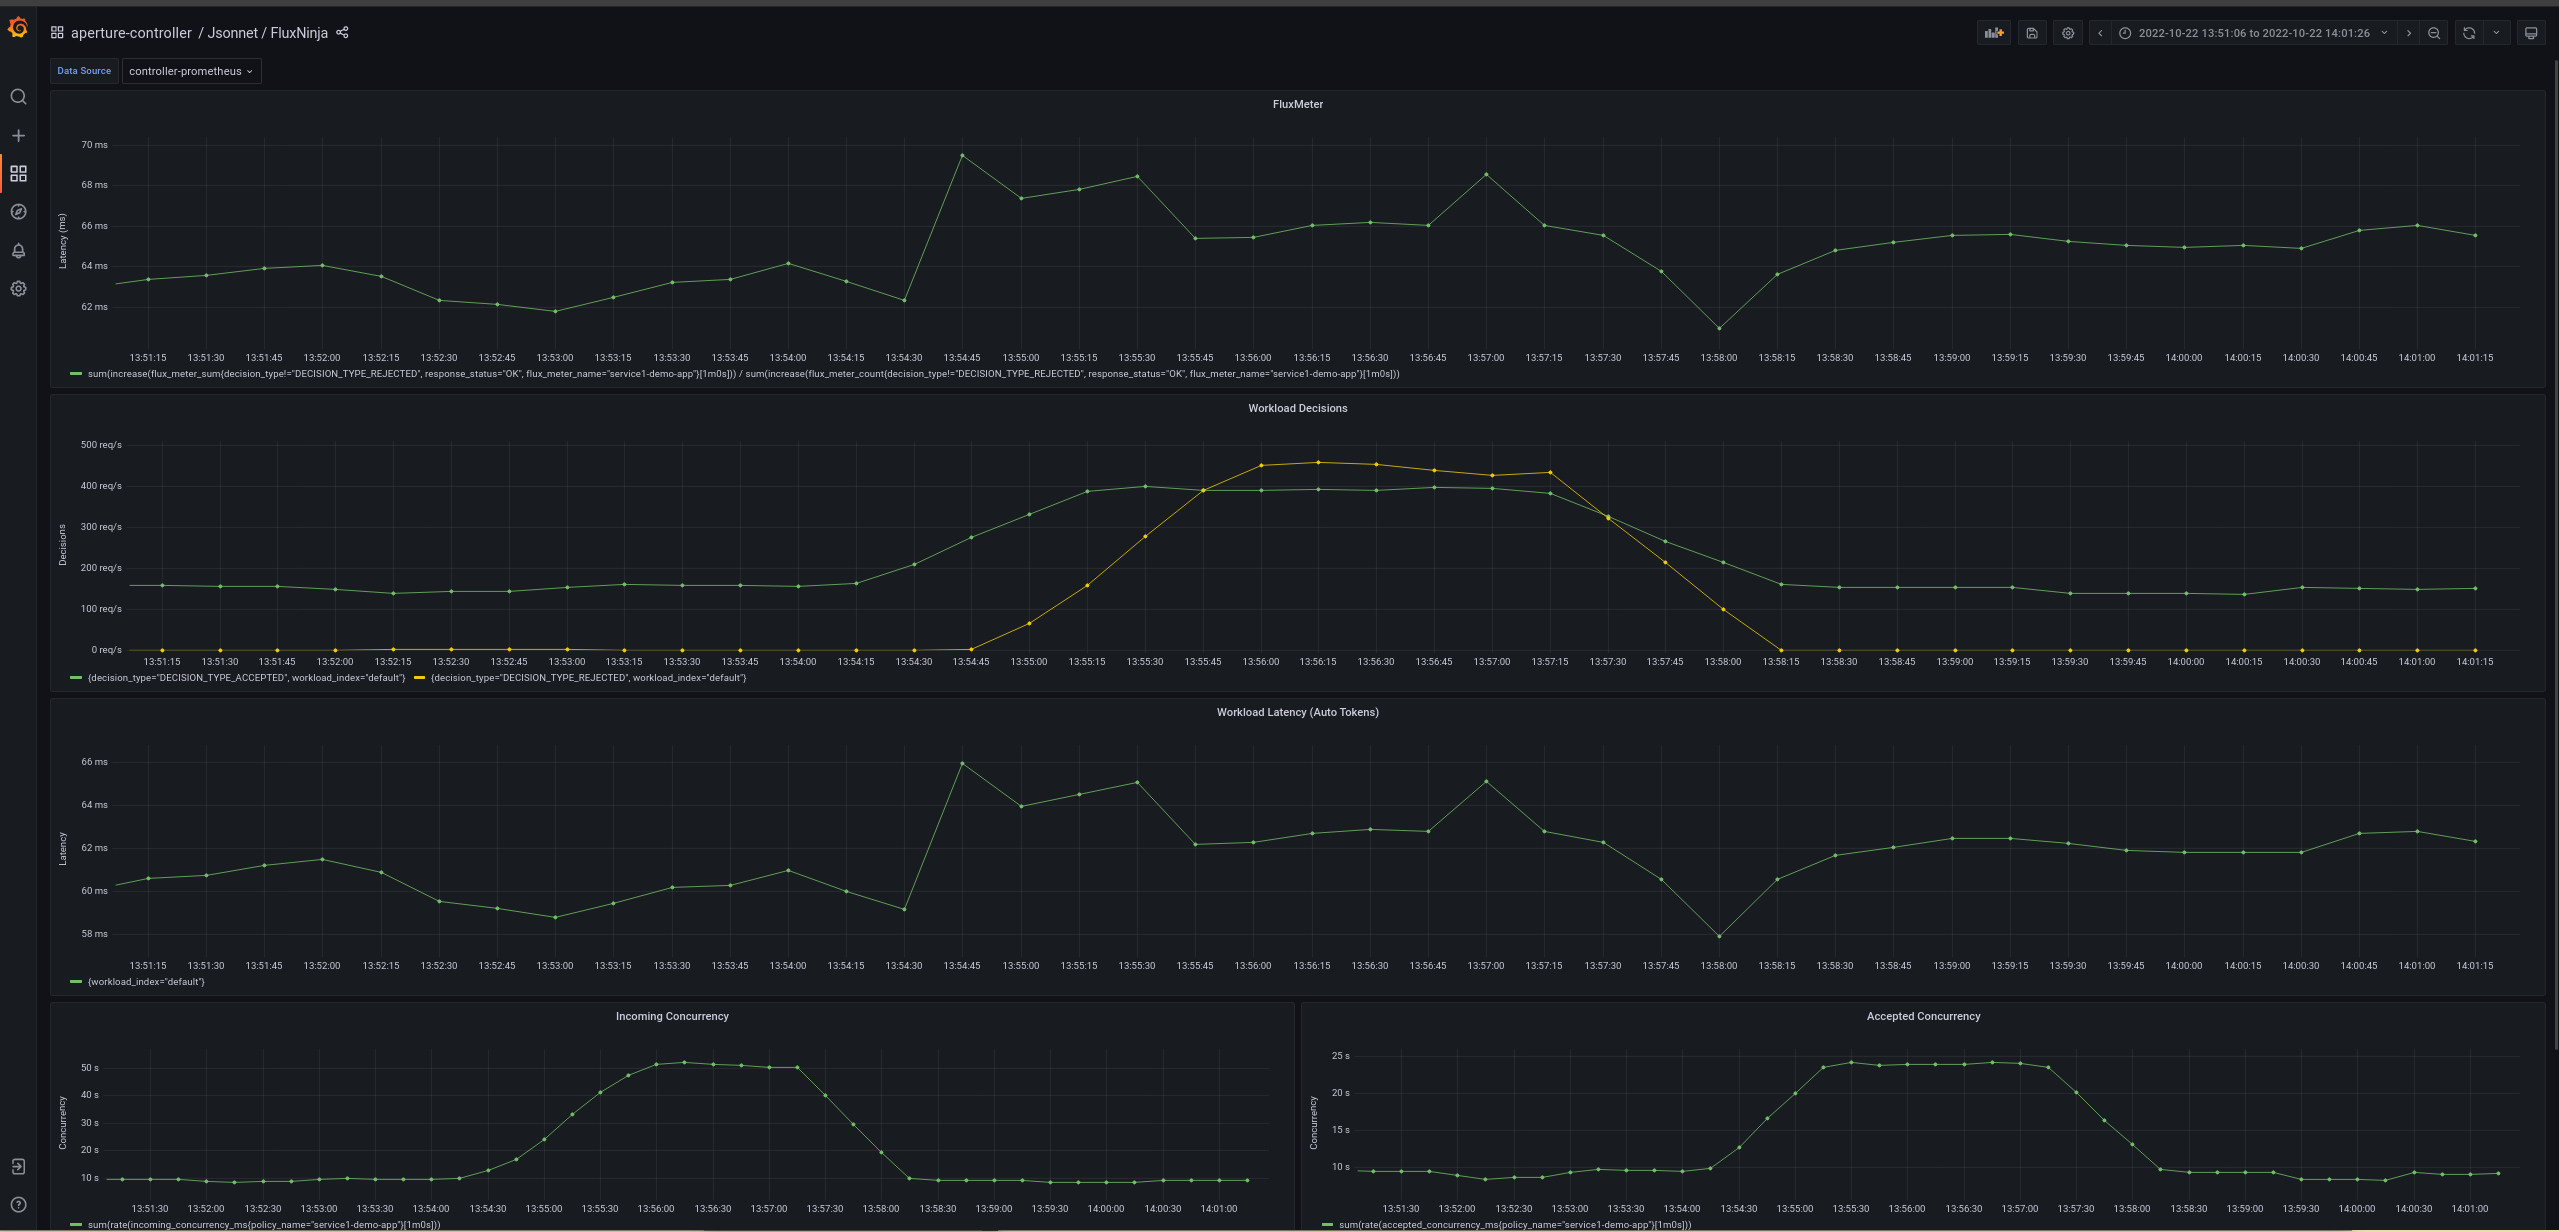
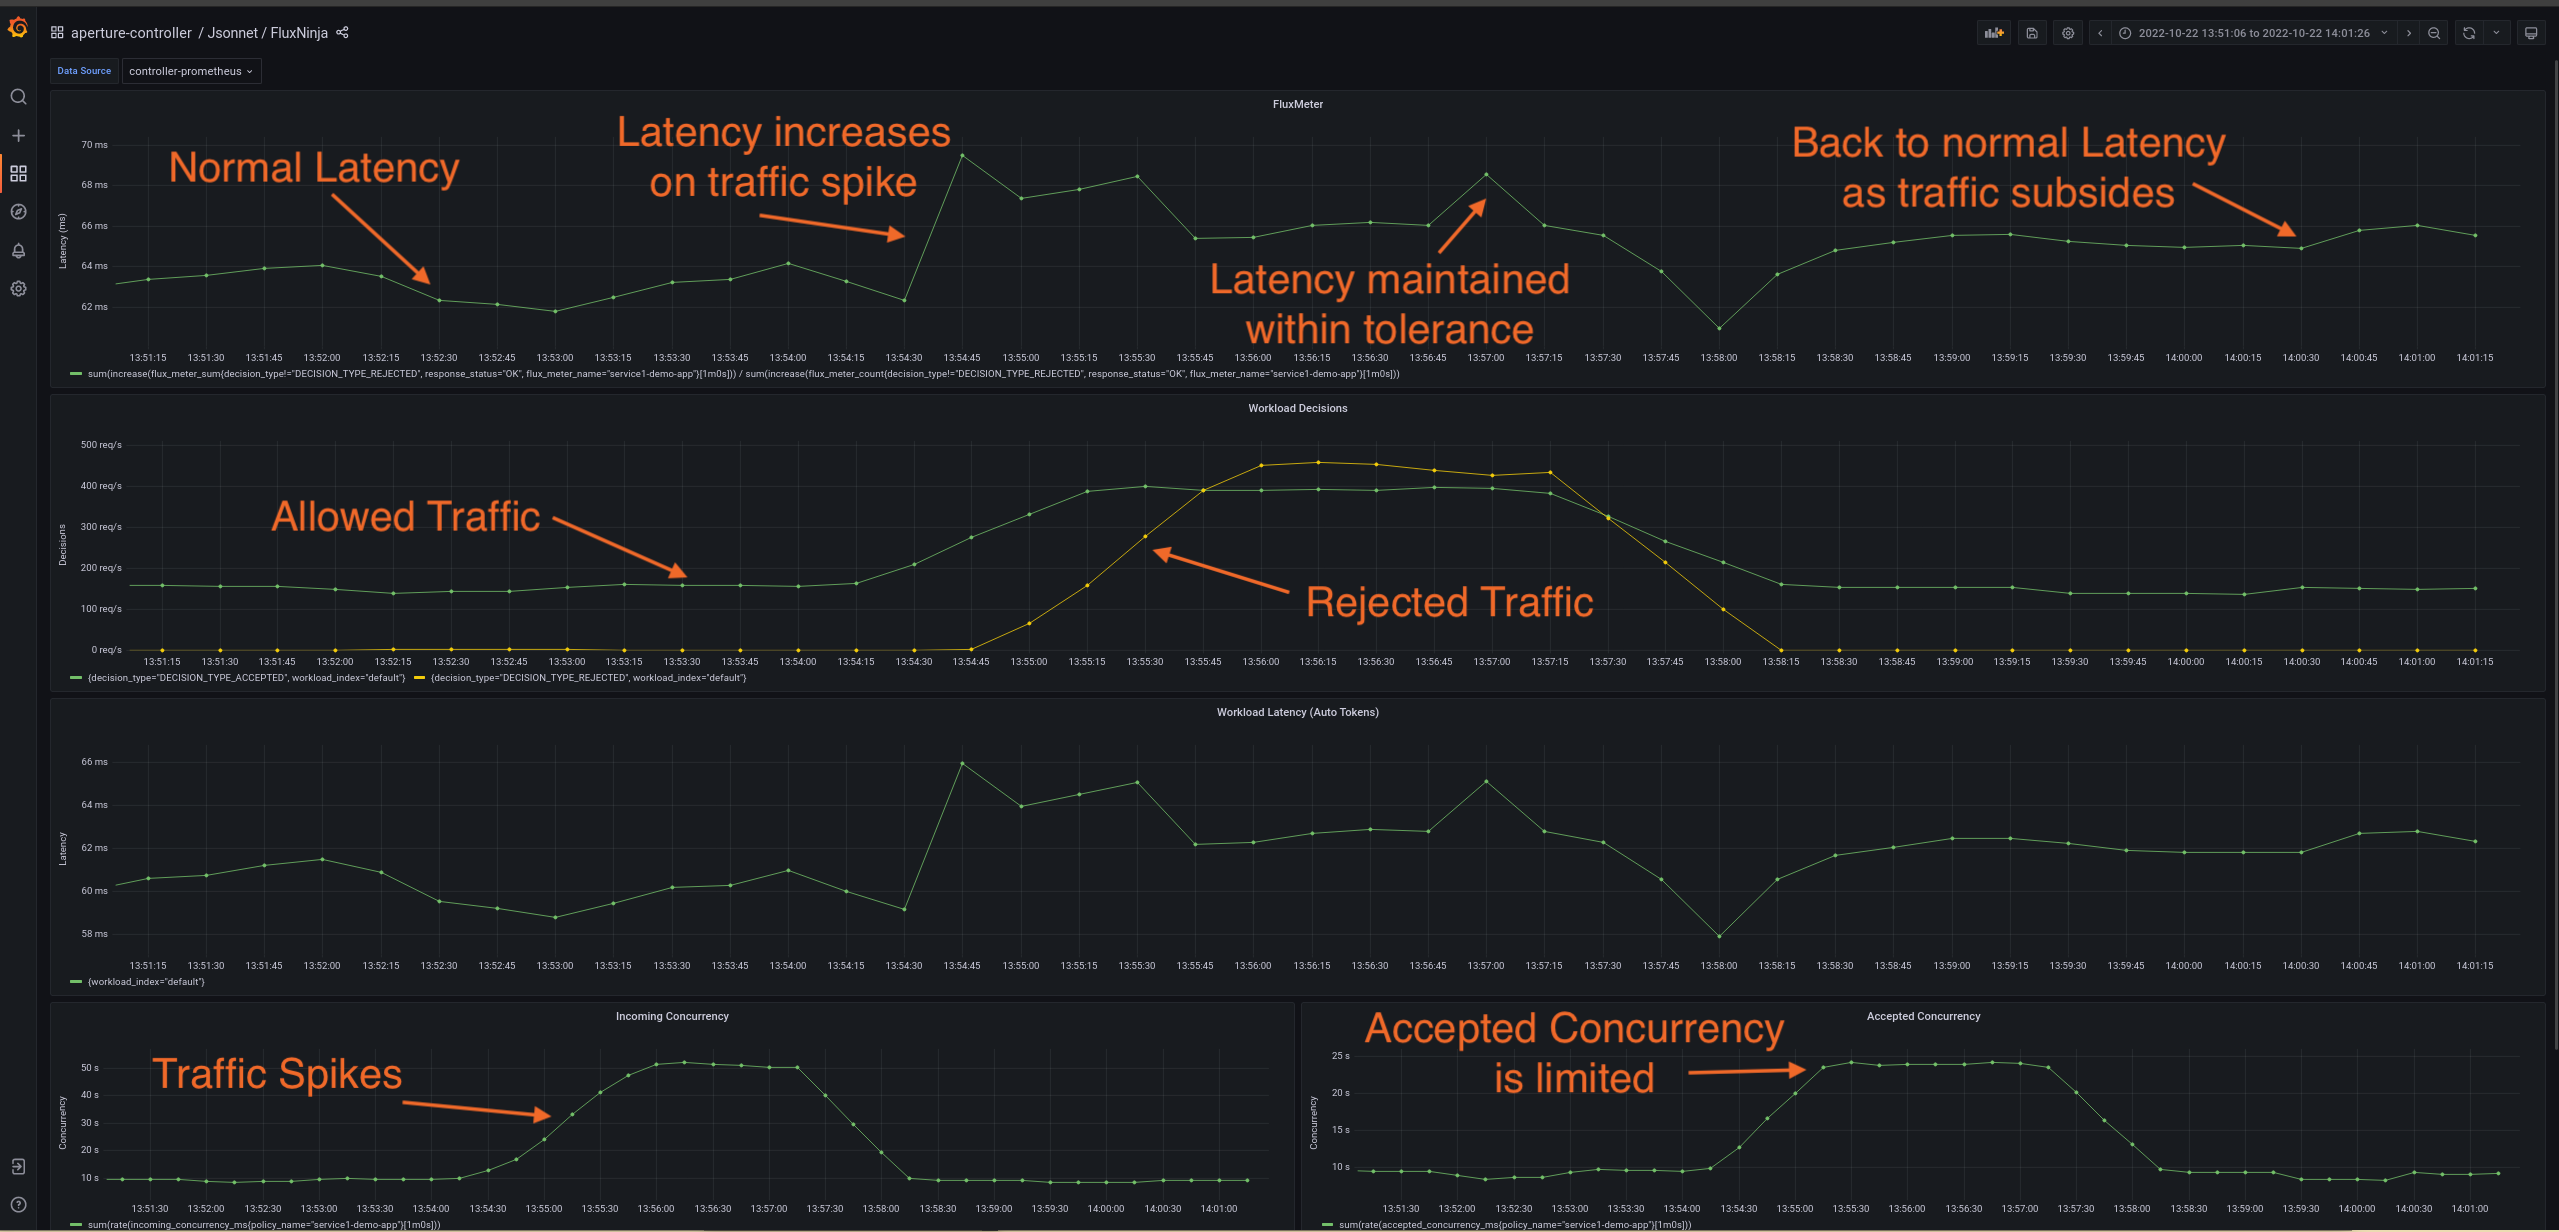
add graph

diff --git a/docs/content/tutorials/flow-control/basic-concurrency-limiting.md b/docs/content/tutorials/flow-control/basic-concurrency-limiting.md
@@ -100,3 +100,9 @@ above the concurrency limit of `service1-demo-app.demoapp.svc.cluster.local`,
 controller triggers load-shed for a proportion of requests matching the
 Selector. This helps protect the service from becoming unresponsive and keeps
 the latency within the tolerance limit (`1.1`) configured in the circuit.
+
+<Zoom>
+
+![Basic Concurrency Limiting](./assets/basic-concurrency-limiting/basic-concurrency-limiting.png)
+
+</Zoom>
